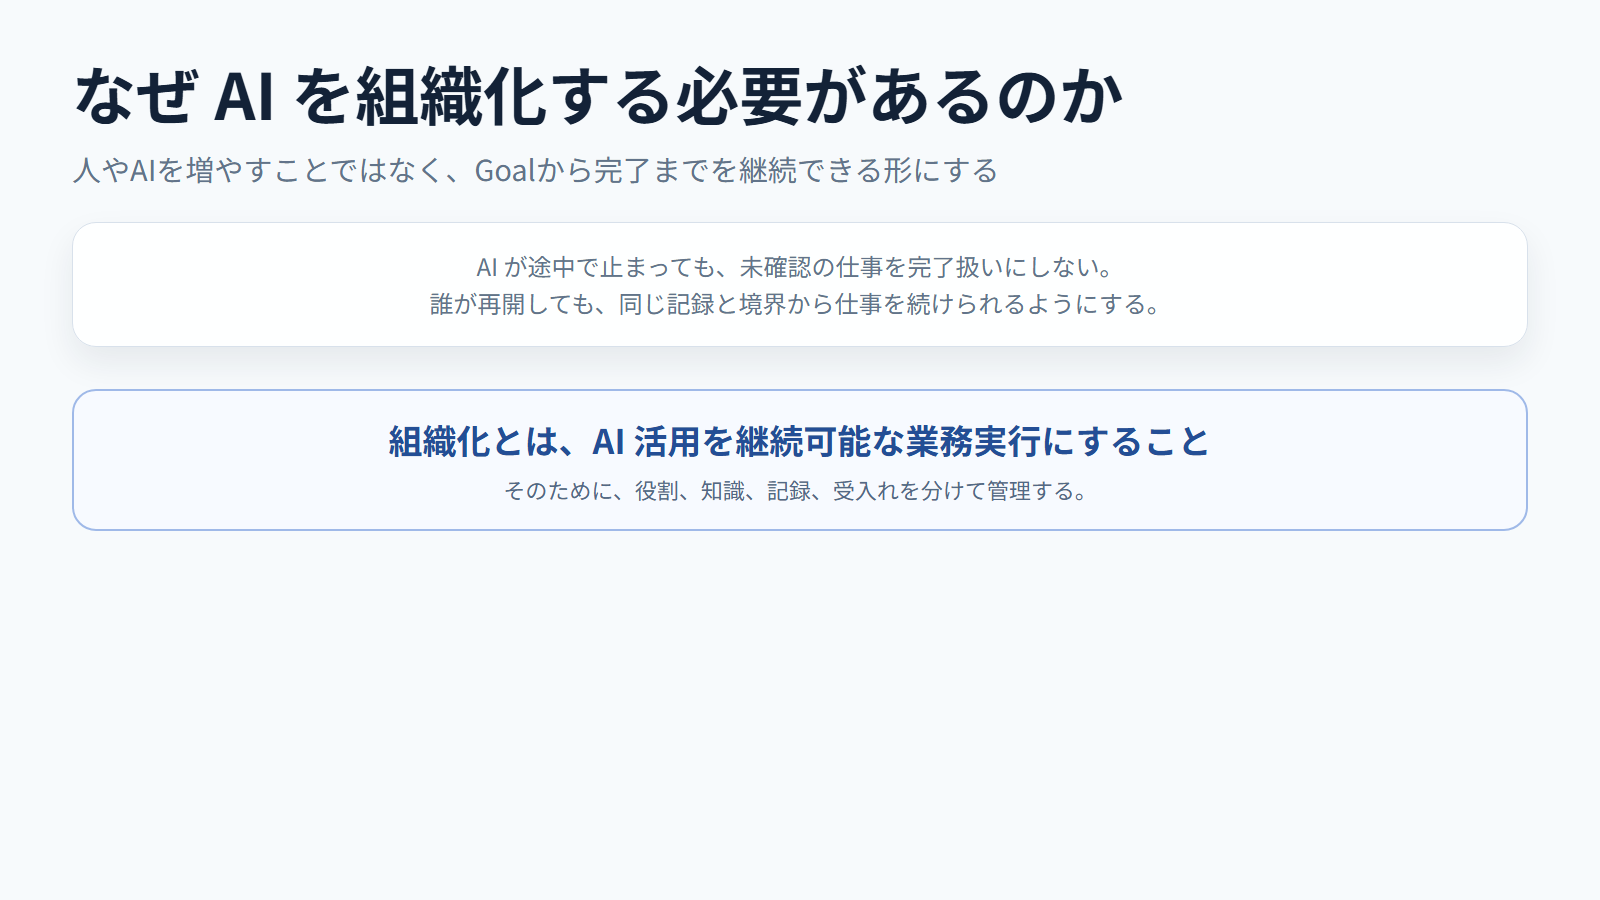
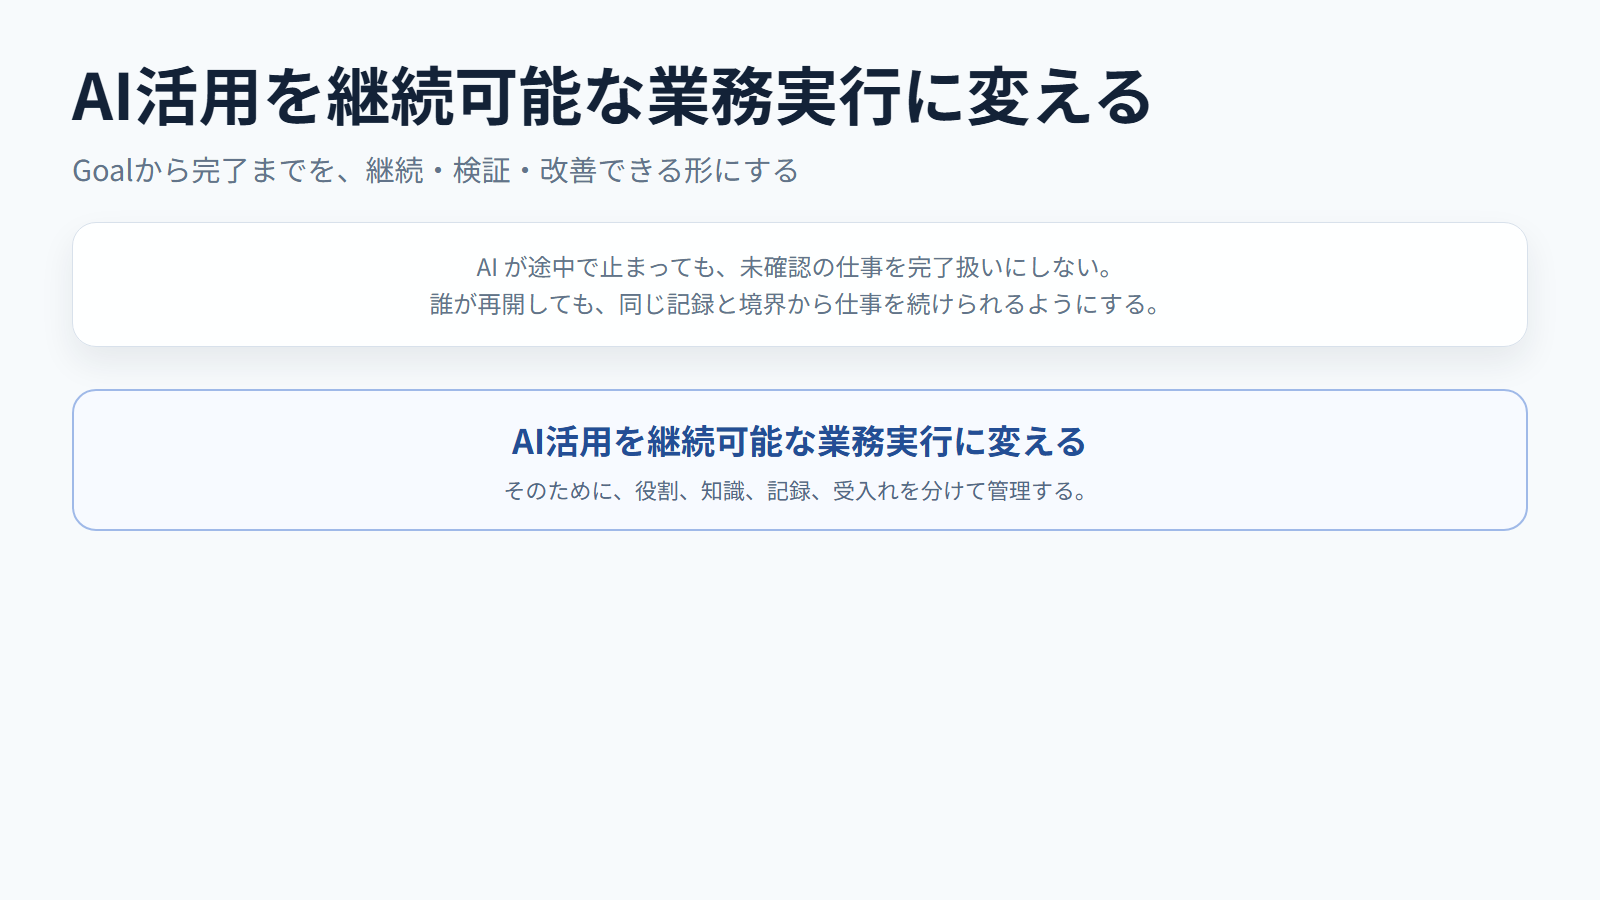
Align Deck 055 with business execution

Changed region(s): [[0.0312, 0.0622, 0.7188, 0.2178], [0.2188, 0.4667, 0.75, 0.5289]]

diff --git a/site/ja/slides/why-ai-organization-needed/index.html b/site/ja/slides/why-ai-organization-needed/index.html
@@ -3,7 +3,7 @@
 <head>
   <meta charset="utf-8" />
   <meta name="viewport" content="width=device-width, initial-scale=1" />
-  <title>なぜ AI を組織化する必要があるのか</title>
+  <title>AI活用を継続可能な業務実行に変える</title>
   <link rel="stylesheet" href="../../../assets/common.css" />
 </head>
 <body>
@@ -14,13 +14,13 @@
     </div>
 
     <header class="deck-header">
-      <h1>なぜ AI を組織化する必要があるのか</h1>
+      <h1>AI活用を継続可能な業務実行に変える</h1>
       <p>Goal、semantic routing、責務を限定した Skill、選択的な Knowledge、workflow protocol により、AI 活用を継続可能な業務実行へ変える理由を説明する資料です。</p>
     </header>
 
     <section class="slide-list">
       <article class="slide-card" tabindex="0" data-slide-link><img src="./00_intro.png" alt="はじめに" /><div class="slide-meta">00. はじめに</div></article>
-      <article class="slide-card" tabindex="0" data-slide-link><img src="./01_title.png" alt="なぜ AI を組織化する必要があるのか" /><div class="slide-meta">01. タイトル</div></article>
+      <article class="slide-card" tabindex="0" data-slide-link><img src="./01_title.png" alt="AI活用を継続可能な業務実行に変える" /><div class="slide-meta">01. タイトル</div></article>
       <article class="slide-card" tabindex="0" data-slide-link><img src="./02_individual_limit.png" alt="個人利用だけでは、仕事の状態が残らない" /><div class="slide-meta">02. 個人利用の限界</div></article>
       <article class="slide-card" tabindex="0" data-slide-link><img src="./03_input_organization.png" alt="Goal が、作業の終点を持つ" /><div class="slide-meta">03. Goal</div></article>
       <article class="slide-card" tabindex="0" data-slide-link><img src="./04_scattered_controls.png" alt="semantic routing が、次の責務を選ぶ" /><div class="slide-meta">04. semantic routing</div></article>
@@ -28,7 +28,7 @@
       <article class="slide-card" tabindex="0" data-slide-link><img src="./06_organization_value.png" alt="Knowledge は、必要な XID だけを読む" /><div class="slide-meta">06. Knowledge</div></article>
       <article class="slide-card" tabindex="0" data-slide-link><img src="./07_human_control_unit.png" alt="workflow protocol が、作業漏れを検査する" /><div class="slide-meta">07. workflow protocol</div></article>
       <article class="slide-card" tabindex="0" data-slide-link><img src="./08_ai_control_unit.png" alt="検証と品質受入れを分ける" /><div class="slide-meta">08. 検証と受入れ</div></article>
-      <article class="slide-card" tabindex="0" data-slide-link><img src="./09_conclusion.png" alt="組織化とは、継続と改善の仕組みを持つこと" /><div class="slide-meta">09. 結論</div></article>
+      <article class="slide-card" tabindex="0" data-slide-link><img src="./09_conclusion.png" alt="継続と改善の仕組みを持つ" /><div class="slide-meta">09. 結論</div></article>
     </section>
   </main>
 

diff --git a/site/sources/ja/slides/why-ai-organization-needed/index.html b/site/sources/ja/slides/why-ai-organization-needed/index.html
@@ -3,7 +3,7 @@
 <head>
   <meta charset="utf-8" />
   <meta name="viewport" content="width=device-width, initial-scale=1" />
-  <title>なぜ AI を組織化する必要があるのか</title>
+  <title>AI活用を継続可能な業務実行に変える</title>
   <link rel="stylesheet" href="../../../assets/common.css" />
 </head>
 <body>
@@ -14,13 +14,13 @@
     </div>
 
     <header class="deck-header">
-      <h1>なぜ AI を組織化する必要があるのか</h1>
+      <h1>AI活用を継続可能な業務実行に変える</h1>
       <p>Goal、semantic routing、責務を限定した Skill、選択的な Knowledge、workflow protocol により、AI 活用を継続可能な業務実行へ変える理由を説明する資料です。</p>
     </header>
 
     <section class="slide-list">
       <article class="slide-card" tabindex="0" data-slide-link><img src="./00_intro.png" alt="はじめに" /><div class="slide-meta">00. はじめに</div></article>
-      <article class="slide-card" tabindex="0" data-slide-link><img src="./01_title.png" alt="なぜ AI を組織化する必要があるのか" /><div class="slide-meta">01. タイトル</div></article>
+      <article class="slide-card" tabindex="0" data-slide-link><img src="./01_title.png" alt="AI活用を継続可能な業務実行に変える" /><div class="slide-meta">01. タイトル</div></article>
       <article class="slide-card" tabindex="0" data-slide-link><img src="./02_individual_limit.png" alt="個人利用だけでは、仕事の状態が残らない" /><div class="slide-meta">02. 個人利用の限界</div></article>
       <article class="slide-card" tabindex="0" data-slide-link><img src="./03_input_organization.png" alt="Goal が、作業の終点を持つ" /><div class="slide-meta">03. Goal</div></article>
       <article class="slide-card" tabindex="0" data-slide-link><img src="./04_scattered_controls.png" alt="semantic routing が、次の責務を選ぶ" /><div class="slide-meta">04. semantic routing</div></article>
@@ -28,7 +28,7 @@
       <article class="slide-card" tabindex="0" data-slide-link><img src="./06_organization_value.png" alt="Knowledge は、必要な XID だけを読む" /><div class="slide-meta">06. Knowledge</div></article>
       <article class="slide-card" tabindex="0" data-slide-link><img src="./07_human_control_unit.png" alt="workflow protocol が、作業漏れを検査する" /><div class="slide-meta">07. workflow protocol</div></article>
       <article class="slide-card" tabindex="0" data-slide-link><img src="./08_ai_control_unit.png" alt="検証と品質受入れを分ける" /><div class="slide-meta">08. 検証と受入れ</div></article>
-      <article class="slide-card" tabindex="0" data-slide-link><img src="./09_conclusion.png" alt="組織化とは、継続と改善の仕組みを持つこと" /><div class="slide-meta">09. 結論</div></article>
+      <article class="slide-card" tabindex="0" data-slide-link><img src="./09_conclusion.png" alt="継続と改善の仕組みを持つ" /><div class="slide-meta">09. 結論</div></article>
     </section>
   </main>
 

diff --git a/human-docs/ja/assets/055_why_ai_organization_needed/09_conclusion.html b/human-docs/ja/assets/055_why_ai_organization_needed/09_conclusion.html
@@ -120,6 +120,6 @@ body {
   color: var(--muted);
 }
 </style></head><body>
-    <div class="canvas"><h1 class="title">組織化とは、継続と改善の仕組みを持つこと</h1><p class="subtitle">速度だけでなく、再開、handoff、検証、改善までを仕事として扱う</p>
+    <div class="canvas"><h1 class="title">継続と改善の仕組みを持つ</h1><p class="subtitle">速度だけでなく、再開、handoff、検証、改善までを仕事として扱う</p>
       <div class="grid-3" style="margin-top:96px;"><div class="card soft-blue"><h3>継続できる</h3><p>Goal とログから、途中で止まっても再開できる</p></div><div class="card soft-green"><h3>検証できる</h3><p>作業漏れと品質受入れを別々に確認できる</p></div><div class="card soft-orange"><h3>改善できる</h3><p>routing、Skill、Knowledge、XID利用を観測して直せる</p></div></div>
-      <div class="summary-band"><strong>AI の速さを、手戻り削減と継続可能な業務実行へ変える</strong><span>それが、AI を組織化する目的である。</span></div></div></body></html>
+      <div class="summary-band"><strong>AI の速さを、手戻り削減と継続可能な業務実行へ変える</strong><span>Goal、Skill、Knowledge、workflow protocol を接続して実現する。</span></div></div></body></html>

diff --git a/human-docs/ja/assets/055_why_ai_organization_needed/01_title.html b/human-docs/ja/assets/055_why_ai_organization_needed/01_title.html
@@ -121,8 +121,8 @@ body {
 }
 </style></head><body>
     <div class="canvas">
-      <h1 class="title">なぜ AI を組織化する必要があるのか</h1>
-      <p class="subtitle">人やAIを増やすことではなく、Goalから完了までを継続できる形にする</p>
+      <h1 class="title">AI活用を継続可能な業務実行に変える</h1>
+      <p class="subtitle">Goalから完了までを、継続・検証・改善できる形にする</p>
       <div class="hero-note">AI が途中で止まっても、未確認の仕事を完了扱いにしない。<br>誰が再開しても、同じ記録と境界から仕事を続けられるようにする。</div>
-      <div class="summary-band" style="margin-top:42px;"><strong>組織化とは、AI 活用を継続可能な業務実行にすること</strong><span>そのために、役割、知識、記録、受入れを分けて管理する。</span></div>
+      <div class="summary-band" style="margin-top:42px;"><strong>AI活用を継続可能な業務実行に変える</strong><span>そのために、役割、知識、記録、受入れを分けて管理する。</span></div>
     </div></body></html>

diff --git a/site/ja/index.html b/site/ja/index.html
@@ -43,7 +43,7 @@
       </a>
       <a class="deck-card" href="./slides/why-ai-organization-needed/">
         <span class="deck-tag">Deck 055</span>
-        <h2>なぜ AI を組織化する必要があるのか</h2>
+        <h2>AI活用を継続可能な業務実行に変える</h2>
         <p>Goal、semantic routing、Skill、Knowledge、workflow protocol により、AI 活用を継続可能な業務実行へ変える理由を説明します。</p>
         <div class="status-row">
           <span class="status-chip single">日本語のみ</span>

diff --git a/site/sources/ja/index.html b/site/sources/ja/index.html
@@ -43,7 +43,7 @@
       </a>
       <a class="deck-card" href="./slides/why-ai-organization-needed/">
         <span class="deck-tag">Deck 055</span>
-        <h2>なぜ AI を組織化する必要があるのか</h2>
+        <h2>AI活用を継続可能な業務実行に変える</h2>
         <p>Goal、semantic routing、Skill、Knowledge、workflow protocol により、AI 活用を継続可能な業務実行へ変える理由を説明します。</p>
         <div class="status-row">
           <span class="status-chip single">日本語のみ</span>

diff --git a/human-docs/ja/000_index.md b/human-docs/ja/000_index.md
@@ -26,7 +26,7 @@
 
 ## 発表・説明用資料
 
-- [なぜ AI を組織化する必要があるのか](055_why_ai_organization_needed_presentation.md#xid-D7C3A9E15B42)
+- [AI活用を継続可能な業務実行に変える](055_why_ai_organization_needed_presentation.md#xid-D7C3A9E15B42)
 - [AI 組織説明動画 改善版シナリオ](063_ai_organization_explainer_clear_script.md)
 - [AI 組織説明動画 改善版](video/063_ai_organization_explainer_clear/README.md)
 - [業務実行基盤への業務取り込み スライド原稿](066_business_execution_foundation_slide_script.md)
